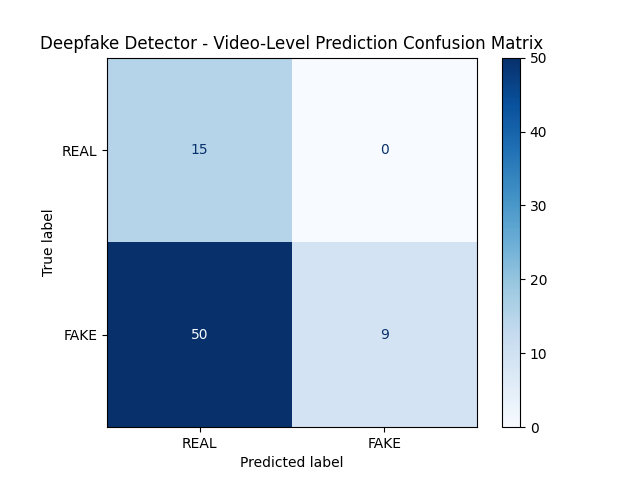
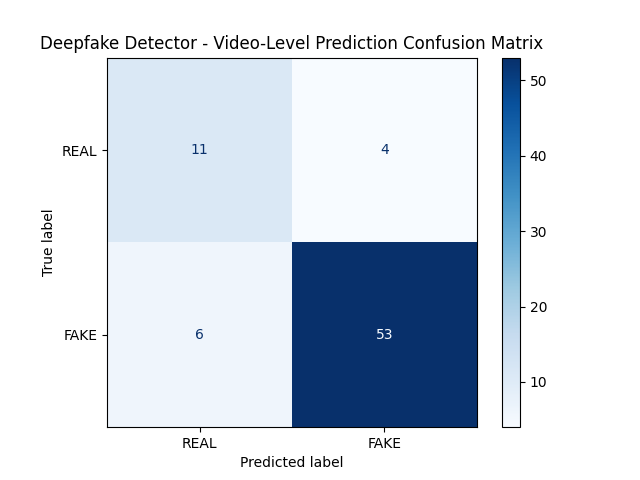
made new improved baseline model

diff --git a/base_model_SSIM_MASK.py b/base_model_SSIM_MASK.py
@@ -117,37 +117,77 @@ threshold = 0.5
 
 
 from tensorflow.keras.models import Sequential
-from tensorflow.keras.layers import Conv2D, MaxPooling2D, Flatten, Dense, Dropout, Input, GlobalAveragePooling2D, Concatenate
+from tensorflow.keras.layers import Conv2D, MaxPooling2D, Flatten, Dense, Dropout, Input, GlobalAveragePooling2D, Concatenate, BatchNormalization
+from tensorflow.keras.regularizers import l2
 
 input_shape = (224, 224)
 
 # 1. RGB Branch
-rgb_input = Input(shape=(*input_shape, 3), name="rgb_input")  # Named for clarity
-x1 = Conv2D(32, (3, 3), activation='relu', padding='same')(rgb_input)
-x1 = MaxPooling2D((2, 2))(x1)
-x1 = Conv2D(64, (3, 3), activation='relu', padding='same')(x1)
-x1 = MaxPooling2D((2, 2))(x1)
-x1 = Conv2D(128, (3, 3), activation='relu', padding='same')(x1)
-x1 = MaxPooling2D((2, 2))(x1)
-x1 = Flatten()(x1)
-x1 = Dense(128, activation='relu')(x1)
-x1 = Dropout(0.5)(x1)
+rgb_input = Input(shape=(*input_shape, 3), name="rgb_input")
+rgb_branch = Sequential([
+    Conv2D(32, (3, 3), activation='relu', padding='same'),
+    BatchNormalization(),
+    MaxPooling2D((2, 2)),
+
+    Conv2D(64, (3, 3), activation='relu', padding='same'),
+    BatchNormalization(),
+    MaxPooling2D((2, 2)),
+
+    Conv2D(128, (3, 3), activation='relu', padding='same'),
+    BatchNormalization(),
+    MaxPooling2D((2, 2)),
+
+    Conv2D(256, (3, 3), activation='relu', padding='same'),
+    BatchNormalization(),
+    MaxPooling2D((2, 2)),
+
+    GlobalAveragePooling2D(),
+
+    Dense(128, activation='relu', kernel_regularizer=l2(0.01)),  
+    Dropout(0.5),
+])
+
+x1 = rgb_branch(rgb_input)  # Correctly apply the input tensor
+
 
 # 2. SSIM Branch
-ssim_input = Input(shape=(*input_shape, 1), name="ssim_input")  # Named for clarity
-x2 = Conv2D(16, (3,3), activation='relu')(ssim_input)
-x2 = MaxPooling2D(4)(x2)
-x2 = Conv2D(32, (3,3), activation='relu')(x2)
-x2 = MaxPooling2D(4)(x2)
-x2 = Conv2D(64, (3,3), activation='relu')(x2)
-x2 = GlobalAveragePooling2D()(x2)  # Ensures correct shape
+ssim_input = Input(shape=(*input_shape, 1), name="ssim_input")
+ssim_branch = Sequential([
+    Conv2D(32, (3, 3), activation='relu', padding='same'),
+    BatchNormalization(),
+    MaxPooling2D((2, 2)),
+
+    Conv2D(64, (3, 3), activation='relu', padding='same'),
+    BatchNormalization(),
+    MaxPooling2D((2, 2)),
+
+    Conv2D(128, (3, 3), activation='relu', padding='same'),
+    BatchNormalization(),
+    MaxPooling2D((2, 2)),
+
+    Conv2D(256, (3, 3), activation='relu', padding='same'),
+    BatchNormalization(),
+    MaxPooling2D((2, 2)),
+
+    GlobalAveragePooling2D(),
+
+    Dense(128, activation='relu', kernel_regularizer=l2(0.01)),  
+    Dropout(0.5),
+])
+
+x2 = ssim_branch(ssim_input)  # Correctly apply the input tensor
+
 
 # 3. SSIM Statistics Branch (Mean & Variance)
-ssim_stats_input = Input(shape=(2,), name="ssim_stats_input")  # Mean and variance as a 2D vector
-x3 = Dense(16, activation='relu')(ssim_stats_input)  # Small FC network
-x3 = Dense(8, activation='relu')(x3)
+ssim_stats_input = Input(shape=(2,), name="ssim_stats_input")
+ssim_stats_branch = Sequential([
+    Dense(16, activation='relu', input_shape=(2,)),
+    Dense(8, activation='relu')
+])
 
-# 3. Merge both branches
+x3 = ssim_stats_branch(ssim_stats_input)  # Correctly apply the input tensor
+
+# 4. Merge All Branches
 combined = Concatenate()([x1, x2, x3])
 # 4. Classification head
 output = Dense(1, activation='sigmoid')(combined)

diff --git a/efficientNet_SSIM_MASK.py b/efficientNet_SSIM_MASK.py
@@ -113,10 +113,11 @@ test_generator_dual = tf.data.Dataset.from_generator(
 threshold = 0.5
 
 
-from tensorflow.keras.models import Model
-from tensorflow.keras.layers import Input, Dense, Dropout, GlobalAveragePooling2D, Concatenate
+from tensorflow.keras.models import Model, Sequential
+from tensorflow.keras.layers import Input, Dense, Dropout, GlobalAveragePooling2D, Concatenate, BatchNormalization
 from tensorflow.keras.applications import EfficientNetB0
-from tensorflow.keras.layers import Flatten
+from tensorflow.keras.layers import Flatten, Conv2D, MaxPooling2D
+from tensorflow.keras.regularizers import l2
 
 input_shape = (224, 224)
 rgb_input = Input(shape=(*input_shape, 3), name="rgb_input")  # Named for clarity
@@ -131,20 +132,43 @@ x1 = GlobalAveragePooling2D()(base_model_rgb.output)  # Global Average Pooling t
 x1 = Dense(1, activation='sigmoid')(x1)
 
 # 2. SSIM Branch
-ssim_input = Input(shape=(*input_shape, 1), name="ssim_input")  # Named for clarity
-x2 = Conv2D(16, (3,3), activation='relu')(ssim_input)
-x2 = MaxPooling2D(4)(x2)
-x2 = Conv2D(32, (3,3), activation='relu')(x2)
-x2 = MaxPooling2D(4)(x2)
-x2 = Conv2D(64, (3,3), activation='relu')(x2)
-x2 = GlobalAveragePooling2D()(x2)  # Ensures correct shape
+ssim_input = Input(shape=(*input_shape, 1), name="ssim_input")
+ssim_branch = Sequential([
+    Conv2D(32, (3, 3), activation='relu', padding='same'),
+    BatchNormalization(),
+    MaxPooling2D((2, 2)),
+
+    Conv2D(64, (3, 3), activation='relu', padding='same'),
+    BatchNormalization(),
+    MaxPooling2D((2, 2)),
+
+    Conv2D(128, (3, 3), activation='relu', padding='same'),
+    BatchNormalization(),
+    MaxPooling2D((2, 2)),
+
+    Conv2D(256, (3, 3), activation='relu', padding='same'),
+    BatchNormalization(),
+    MaxPooling2D((2, 2)),
+
+    GlobalAveragePooling2D(),
+
+    Dense(128, activation='relu', kernel_regularizer=l2(0.01)),  
+    Dropout(0.5),
+])
+
+x2 = ssim_branch(ssim_input)  # Correctly apply the input tensor
+
 
 # 3. SSIM Statistics Branch (Mean & Variance)
-ssim_stats_input = Input(shape=(2,), name="ssim_stats_input")  # Mean and variance as a 2D vector
-x3 = Dense(16, activation='relu')(ssim_stats_input)  # Small FC network
-x3 = Dense(8, activation='relu')(x3)
+ssim_stats_input = Input(shape=(2,), name="ssim_stats_input")
+ssim_stats_branch = Sequential([
+    Dense(16, activation='relu', input_shape=(2,)),
+    Dense(8, activation='relu')
+])
 
-# 3. Merge both branches
+x3 = ssim_stats_branch(ssim_stats_input)  # Correctly apply the input tensor
+
+# 4. Merge All Branches
 combined = Concatenate()([x1, x2, x3])
 # 4. Classification head
 output = Dense(1, activation='sigmoid')(combined)

diff --git a/base_model.py b/base_model.py
@@ -87,27 +87,40 @@ threshold = 0.5
 
 
 from tensorflow.keras.models import Sequential
-from tensorflow.keras.layers import Conv2D, MaxPooling2D, Flatten, Dense, Dropout
+from tensorflow.keras.layers import Conv2D, MaxPooling2D, Flatten, Dense, Dropout, BatchNormalization, GlobalAveragePooling2D
+from tensorflow.keras.regularizers import l2
 
 input_shape = (224, 224, 3)
-
+# Build the model
 model = Sequential([
     # First Conv Layer
     Conv2D(32, (3, 3), activation='relu', padding='same', input_shape=input_shape),
+    BatchNormalization(),
     MaxPooling2D((2, 2)),
 
     # Second Conv Layer
     Conv2D(64, (3, 3), activation='relu', padding='same'),
+    BatchNormalization(),
     MaxPooling2D((2, 2)),
 
     # Third Conv Layer
     Conv2D(128, (3, 3), activation='relu', padding='same'),
+    BatchNormalization(),
     MaxPooling2D((2, 2)),
 
-    # Flatten and Fully Connected Layers
-    Flatten(),
-    Dense(128, activation='relu'),
-    Dropout(0.5),  # Regularization to prevent overfitting
+    # Fourth Conv Layer (Added for more feature extraction)
+    Conv2D(256, (3, 3), activation='relu', padding='same'),
+    BatchNormalization(),
+    MaxPooling2D((2, 2)),
+
+    # Global Average Pooling instead of Flatten
+    GlobalAveragePooling2D(),
+
+    # Fully Connected Layer
+    Dense(128, activation='relu', kernel_regularizer=l2(0.01)),  
+    Dropout(0.5),
+
+    # Output Layer
     Dense(1, activation='sigmoid')  # Binary classification
 ])
 

diff --git a/efficientNet.py b/efficientNet.py
@@ -104,9 +104,7 @@ x = Dense(1, activation='sigmoid')(x)  # Output layer for binary classification
 # Create the final model
 model = Model(inputs=base_model.input, outputs=x)
 
-# model.compile(optimizer='adam',
-#                 loss='binary_crossentropy',
-#                 metrics=['accuracy'])
+
 import tensorflow.keras.backend as K
 
 def focal_loss(alpha=0.25, gamma=2.0):

diff --git a/results.md b/results.md
@@ -1,10 +1,10 @@
 # Base Model
 Classification Metrics:
-Accuracy  : 0.3243
-Precision : 1.0000
-Recall    : 0.1525
-F1        : 0.2647
-Auc_roc   : 0.5932
+Accuracy  : 0.8649
+Precision : 0.9298
+Recall    : 0.8983
+F1        : 0.9138
+Auc_roc   : 0.8927
 
 
 # Base Model SSIM
